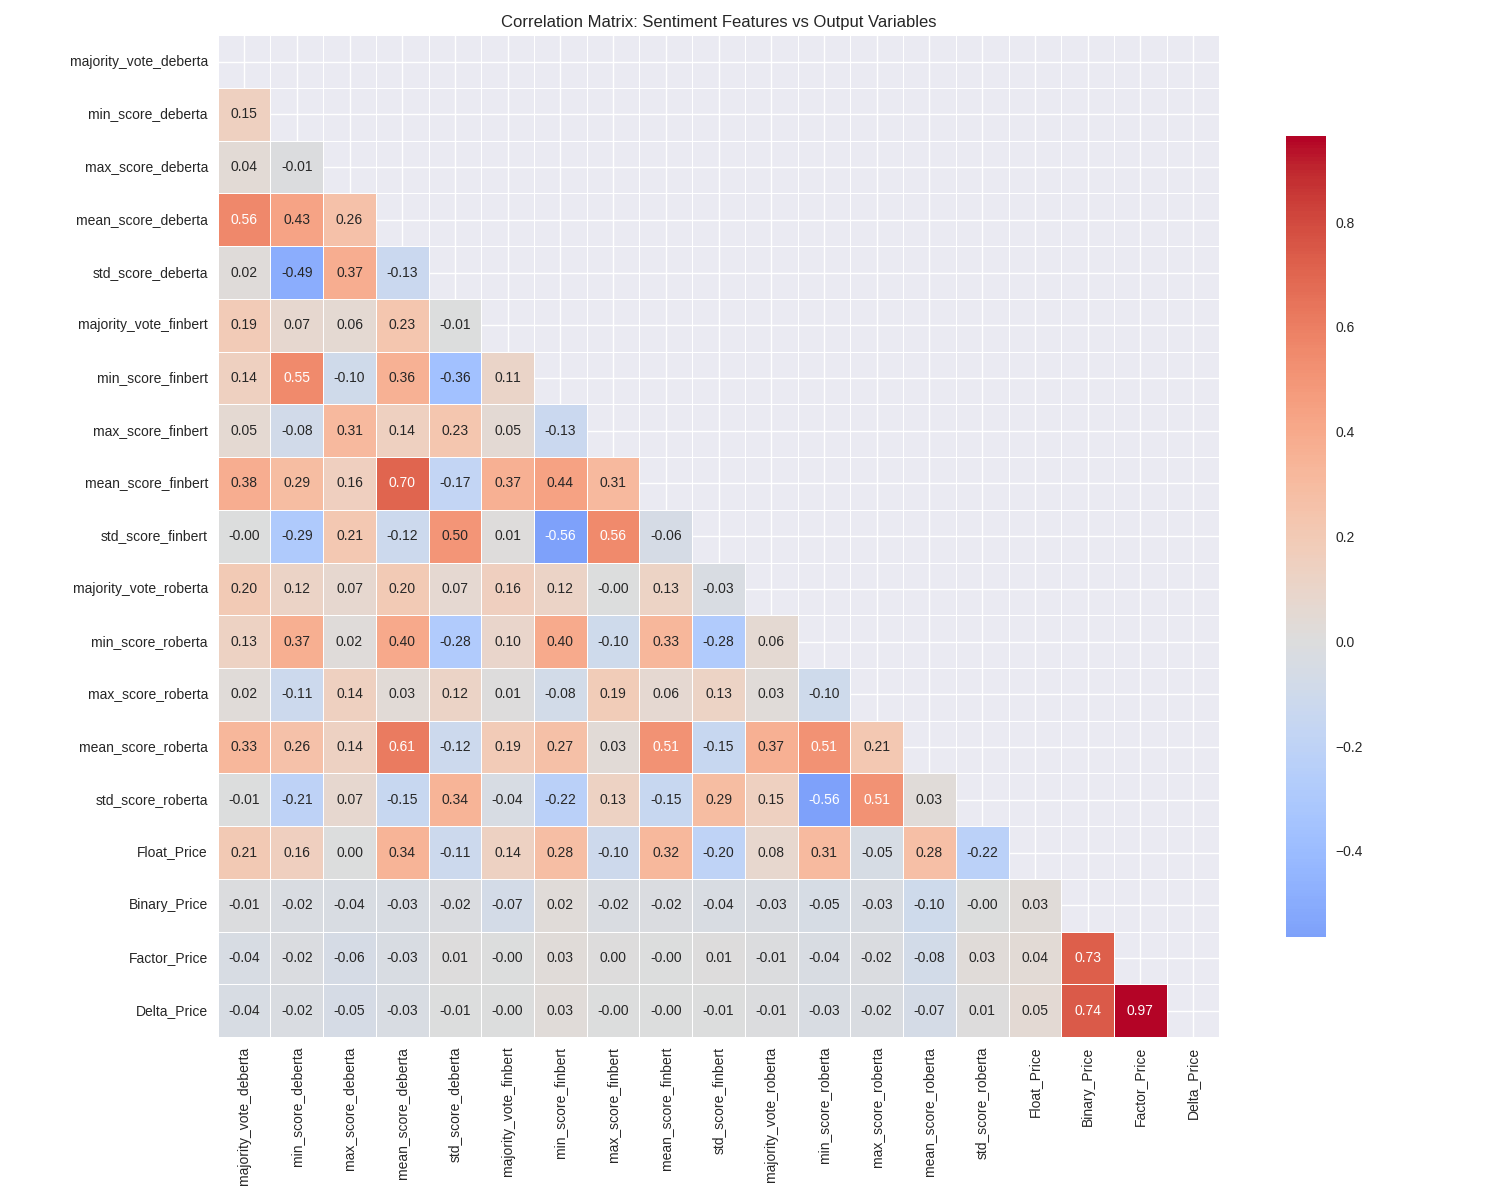
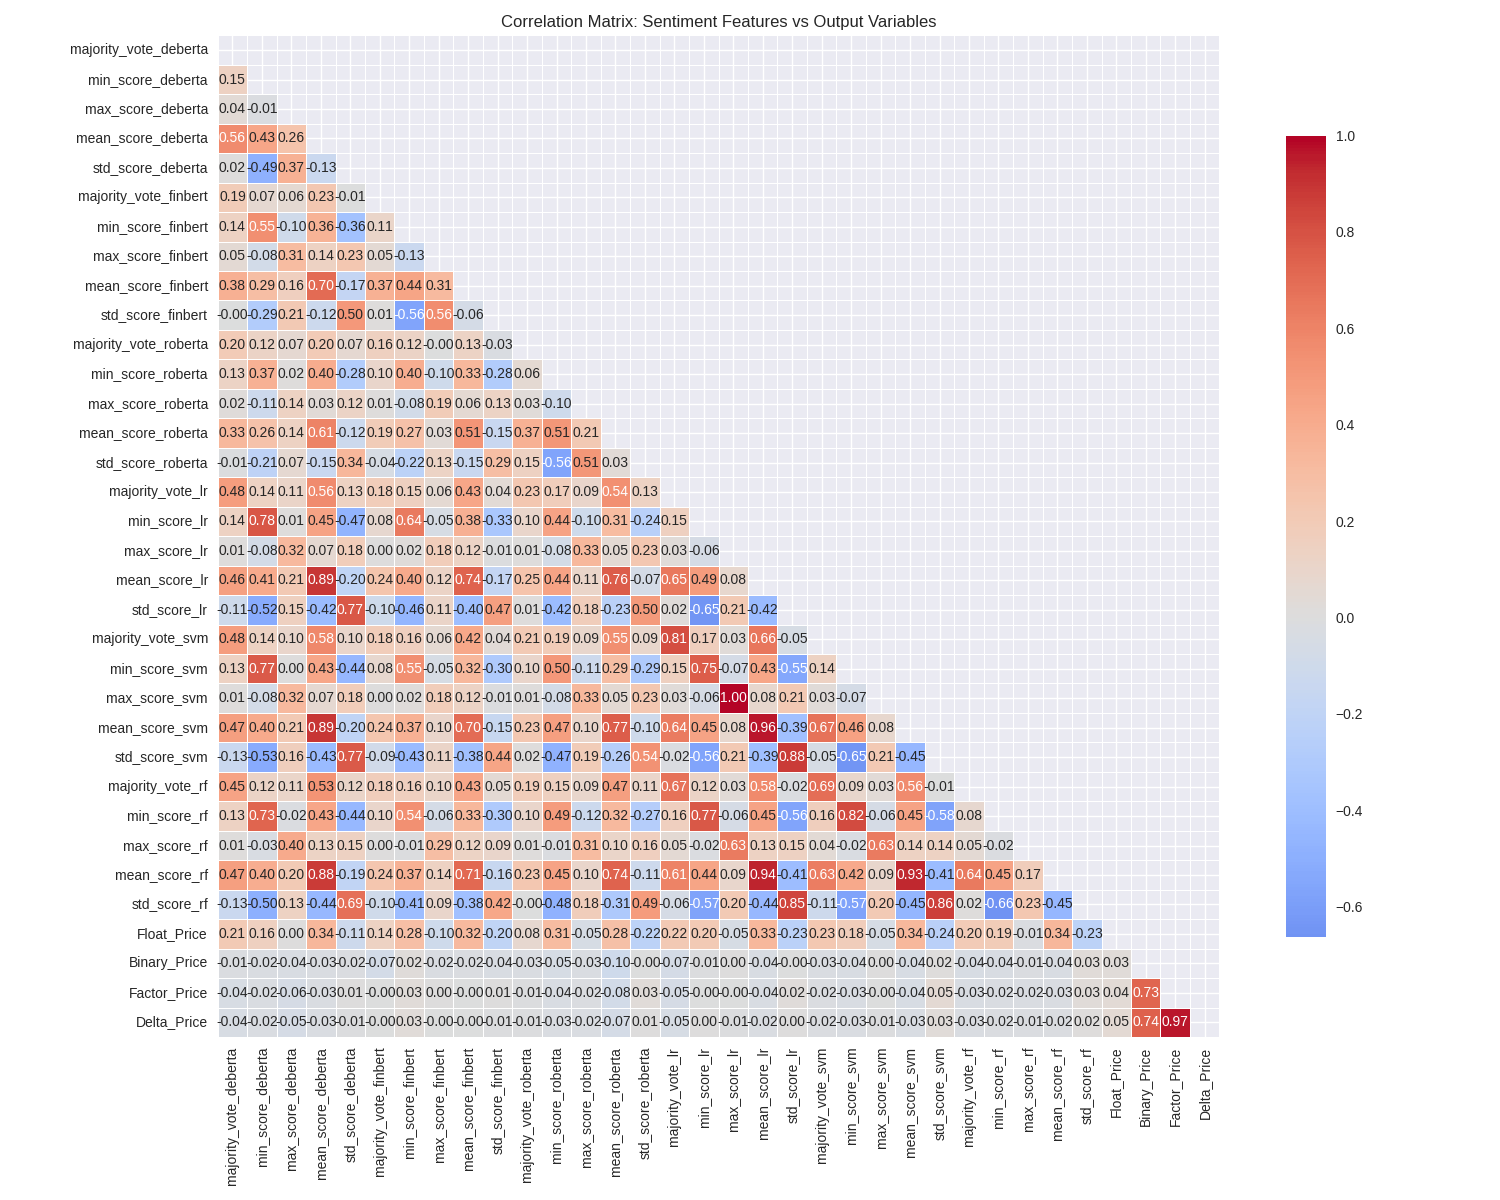
Small adjustments

Changed region(s): [[0.0307, 0.0308, 0.828, 0.9867]]

diff --git a/stock_prediction/dataset.py b/stock_prediction/dataset.py
@@ -41,9 +41,7 @@ def load_sentiment_data(stock_symbol: str) -> pd.DataFrame:
     """Load sentiment analysis results for a given stock symbol."""
     # Try different possible file names
     possible_files = [
-        INTERIM_DATA_DIR / f"{stock_symbol}_financial_news_sentiment_analysis_results_with_classical_models.csv",
-        INTERIM_DATA_DIR / f"{stock_symbol}_financial_news_sentiment_analysis_results.csv",
-        INTERIM_DATA_DIR / "models" / f"{stock_symbol}_financial_news_sentiment_analysis_results.csv"
+        INTERIM_DATA_DIR / "models" / f"{stock_symbol}_financial_news_sentiment_analysis_results_with_classical_models.csv"
     ]
     
     for file_path in possible_files:
@@ -168,7 +166,7 @@ def merge_price_and_sentiment(price_df: pd.DataFrame, sentiment_df: pd.DataFrame
 
 @app.command()
 def main(
-    stock_symbol: str = typer.Option("NFLX", help="Stock symbol to process"),
+    stock_symbol: str = typer.Option("TSLA", help="Stock symbol to process"),
     input_path: Optional[Path] = typer.Option(None, help="Custom path to price data file"),
     news_path: Optional[Path] = typer.Option(None, help="Custom path to sentiment data file"),
     output_path: Optional[Path] = typer.Option(None, help="Custom output path"),

diff --git a/stock_prediction/plots.py b/stock_prediction/plots.py
@@ -357,11 +357,11 @@ class FinancialNewsAnalyzer:
 
 @app.command()
 def main(
-    input_path: Path = PROCESSED_DATA_DIR / "AMZN_preprocessed_dataset_with_features.csv"
+    input_path: Path = PROCESSED_DATA_DIR / "MSFT_preprocessed_dataset_with_features.csv"
 ):
     logger.info("Generating plot from data...")
     df = pd.read_csv(input_path)
-    analyzer = FinancialNewsAnalyzer(df=df, stock_symbol="AMZN")
+    analyzer = FinancialNewsAnalyzer(df=df, stock_symbol="MSFT")
     analyzer.run_complete_analysis()
     logger.success("Plot generation complete.") 
 

diff --git a/stock_prediction/features.py b/stock_prediction/features.py
@@ -13,8 +13,8 @@ app = typer.Typer()
 @app.command()
 def main(
     # ---- REPLACE DEFAULT PATHS AS APPROPRIATE ----
-    input_path: Path = PROCESSED_DATA_DIR / "AAPL_preprocessed_dataset.csv",
-    output_path: Path = PROCESSED_DATA_DIR / "AAPL_preprocessed_dataset_with_features.csv",
+    input_path: Path = PROCESSED_DATA_DIR / "TSLA_preprocessed_dataset.csv",
+    output_path: Path = PROCESSED_DATA_DIR / "TSLA_preprocessed_dataset_with_features.csv",
     # -----------------------------------------
 ):
     # ---- REPLACE THIS WITH YOUR OWN CODE ----
